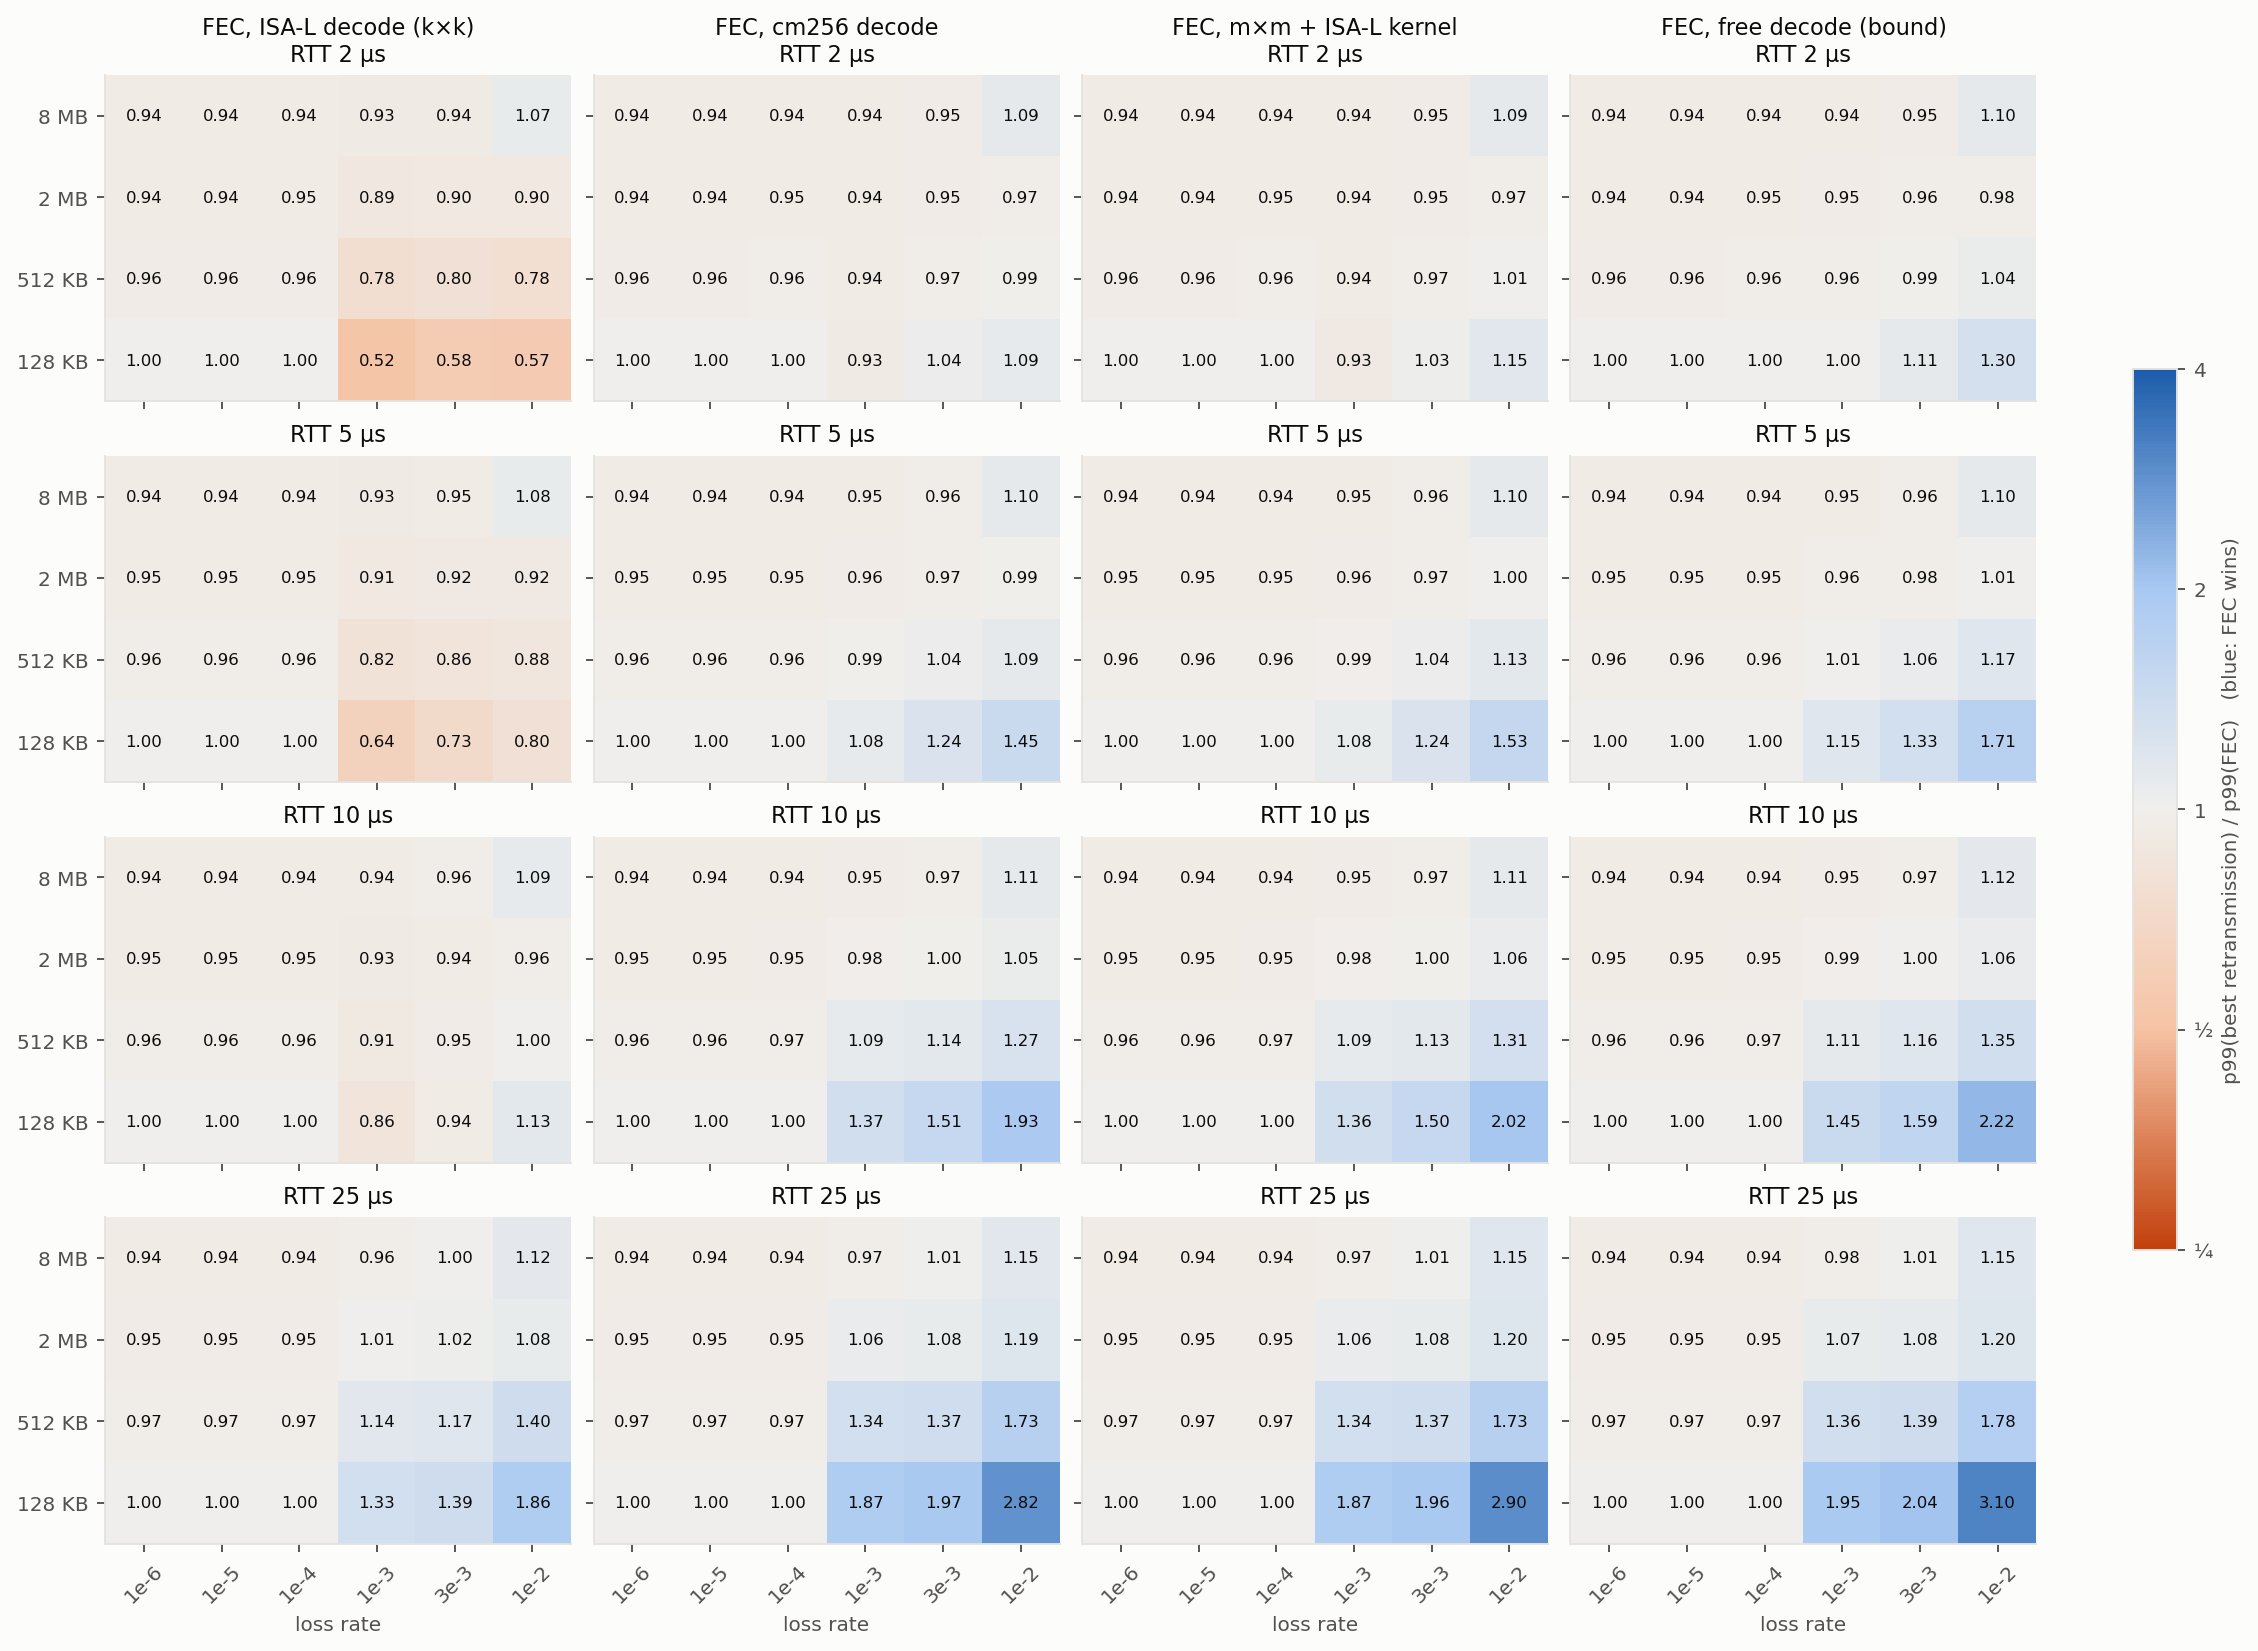
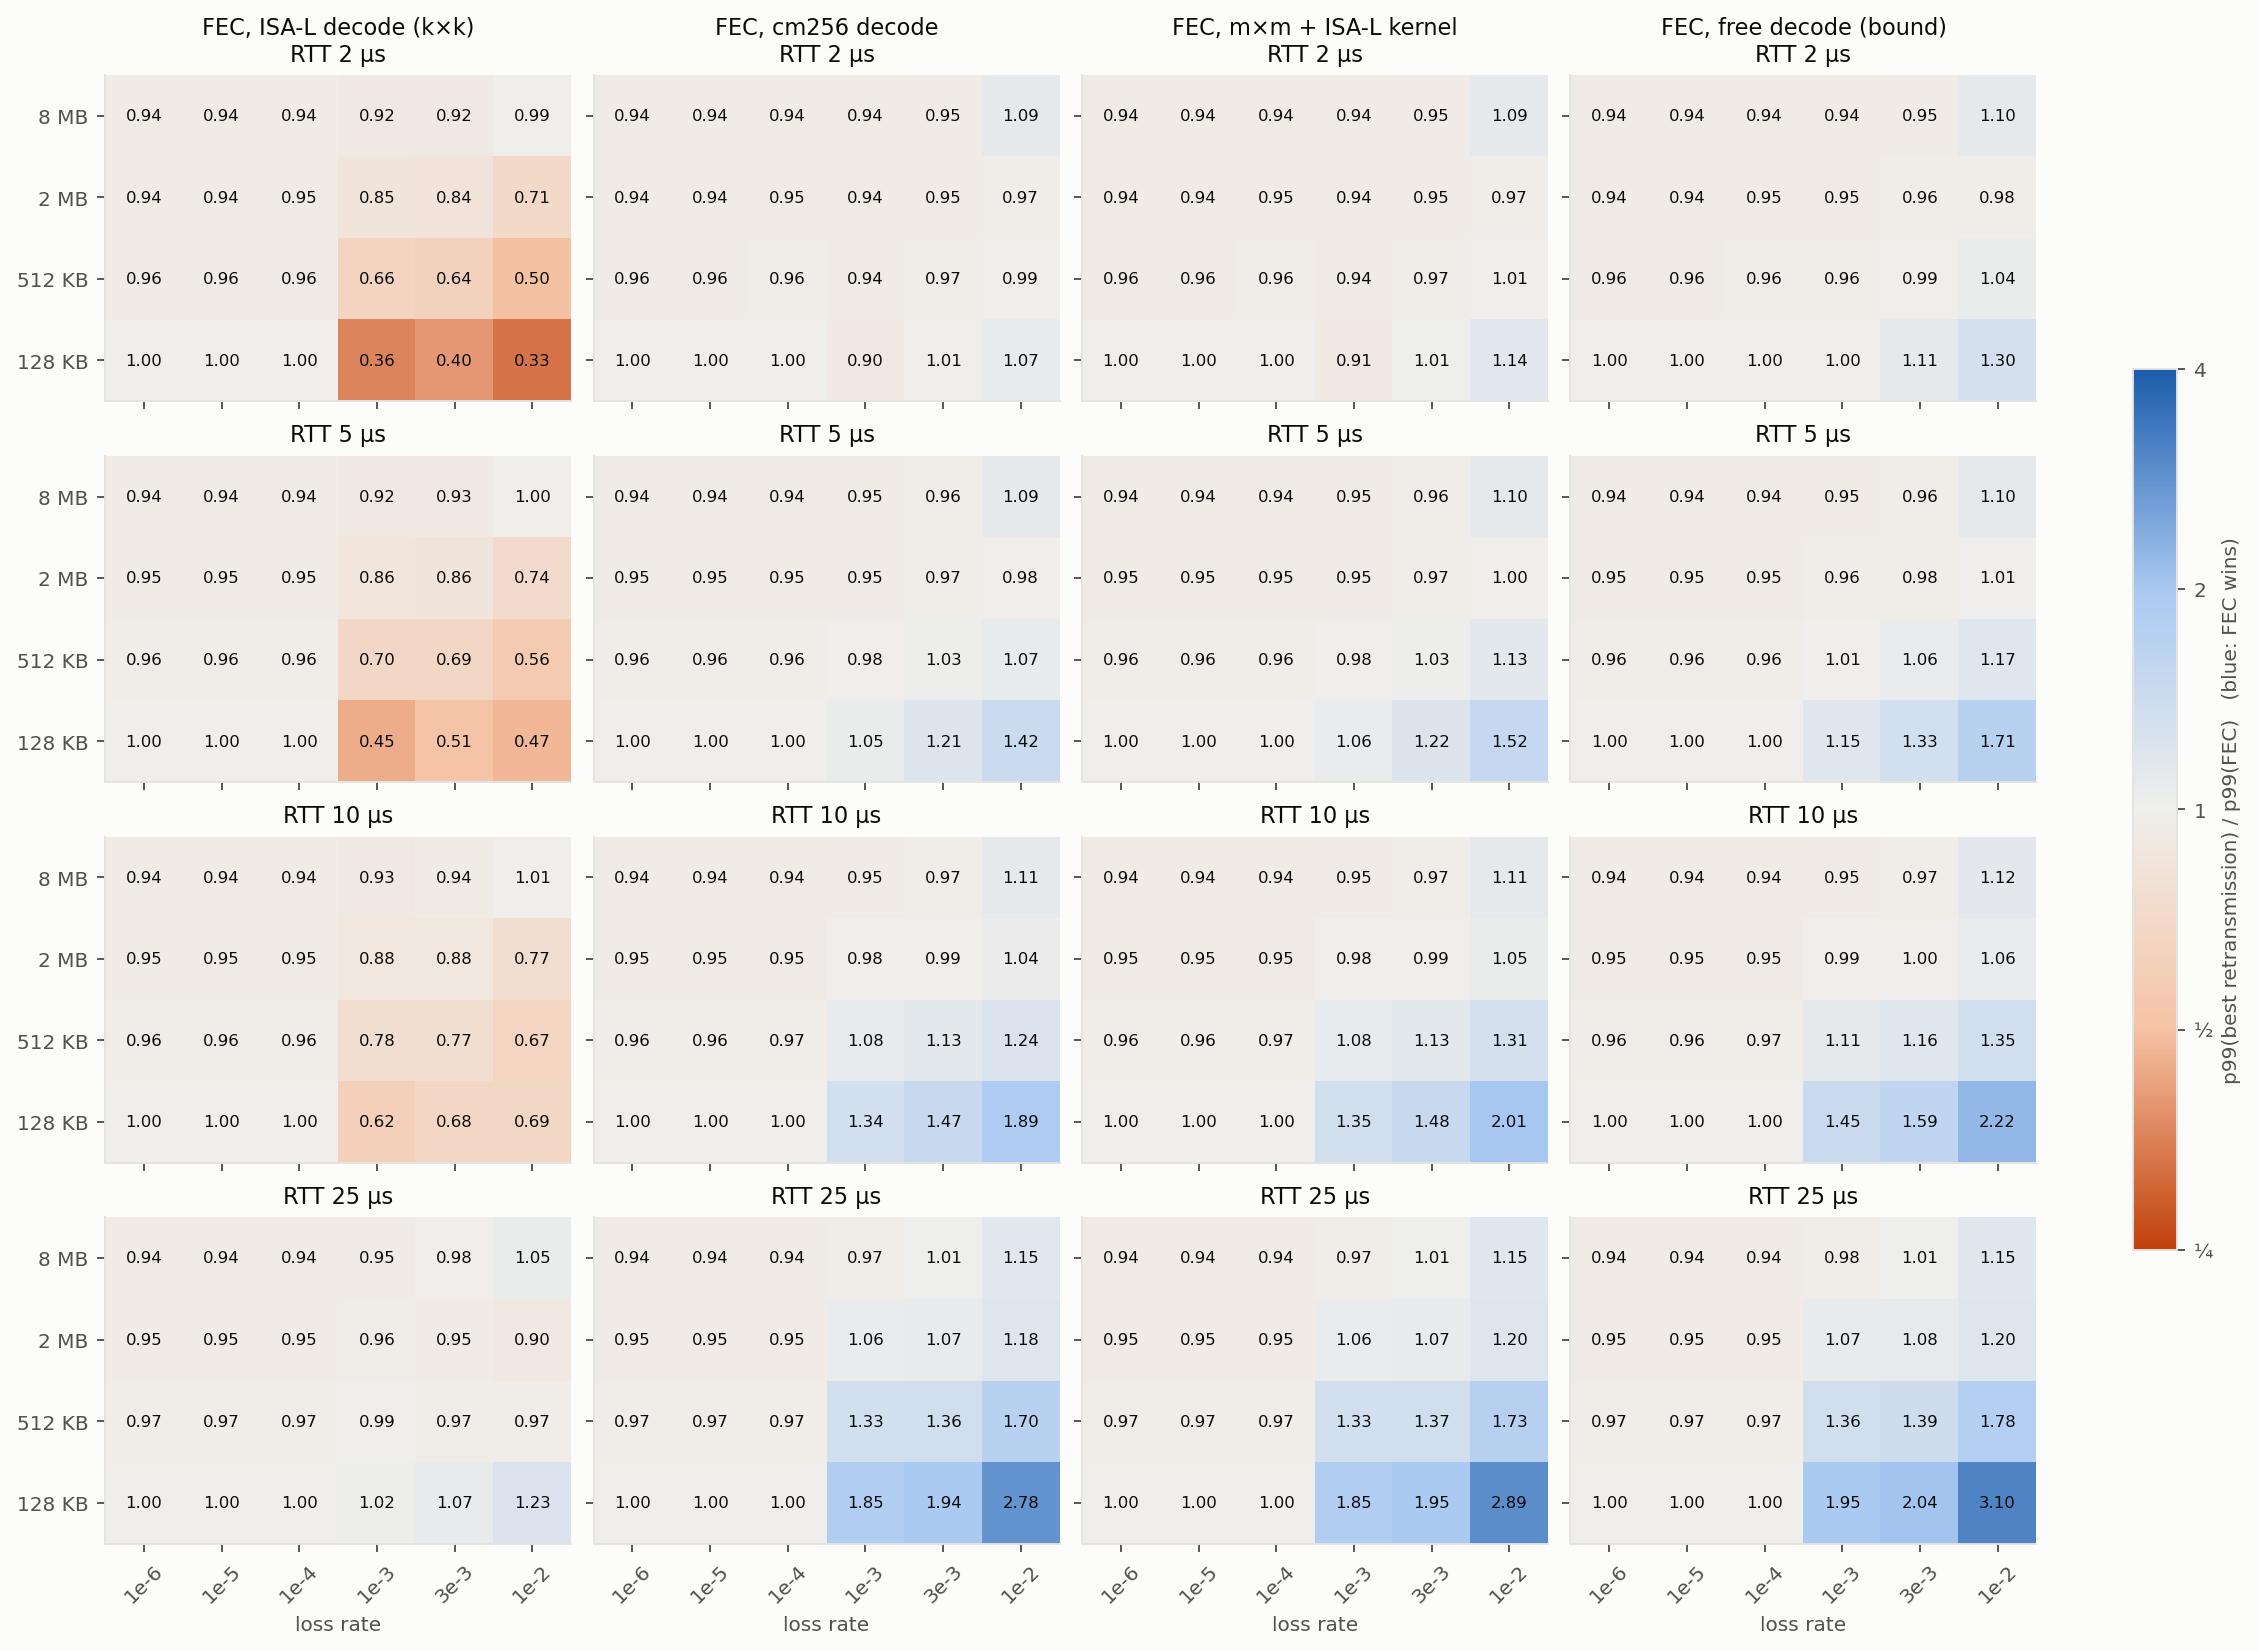
paper: server-based figures, parity-overhead and calibrated-burst results

diff --git a/paper/results.tex b/paper/results.tex
@@ -2,8 +2,7 @@
 %   bench_isal/results/ip-172-31-22-156-20261030-0546  (decode costs, AWS c7i.2xlarge, Xeon Platinum 8488C) — primary
 %   bench_isal/results/DESKTOP-MDBVB0T-20261030-1146   (decode costs, i9-14900HX laptop) — cross-check
 %   fecsim, 64-flow table: 1,000 steps/point with the server decode table (same seeds as run_sweeps.sh)
-% Figures: regenerate with  fecsim/run_sweeps.sh ../bench_isal/results/ip-172-31-22-156-20261030-0546/latency.csv
-%          then copy figures/fig{1,3}*.png next to this file.
+%   fecsim/results/20261030-1413  (full sweep with the server decode table; figures fig1, fig3, fig6, fig7 copied here)
 
 \section{Evaluation}
 \label{sec:eval}
@@ -93,6 +92,31 @@ boundary. FEC with an erasure-count decoder wins for small messages at loss rate
 above, and the region where it wins grows with RTT. ISA-L decoding shrinks that region to almost
 nothing at RTTs of 5\,\textmu s or less.
 
+\paragraph{How much parity.} Figure~\ref{fig:overhead} plots tail latency against parity overhead.
+At $10^{-4}$--$10^{-3}$ loss the 6.25\% codes are best: RS(17,16) completes a 64-flow step of
+128\,KB in 14.5\,\textmu s, against 23.3\,\textmu s for the best retransmission. At $10^{-2}$ loss
+they no longer carry enough parity. Too many codewords lose more than one packet, fall back to
+retransmission and hit the timeout (118.6\,\textmu s). RS(20,16), with 25\% overhead, completes in
+16.7\,\textmu s. The right amount of parity therefore grows with the loss rate. For single messages
+of 2\,MB no amount of parity beats retransmission below 1\% loss.
+
+\paragraph{Bursty loss calibrated to production measurements.} Losses in datacenters are bursty.
+Ghabashneh et al.~\cite{ghabashneh2022} measured Meta racks:
+\begin{itemize}
+  \item bursts last a median of 2\,ms (90th percentile 8\,ms);
+  \item they occur 7.5--39.8 times per second;
+  \item 0.4--5\% of them drop packets.
+\end{itemize}
+We convert these numbers into a two-state burst model that advances in wall-clock time, with
+lossy bursts of mean 2.9\,ms occupying $2.2\times10^{-4}$ (typical rack), $1.15\times10^{-3}$
+(busy) or $5.8\times10^{-3}$ (contended) of the time. The loss rate inside a burst is not
+published, so we sweep it. The same reversal appears (Figure~\ref{fig:bursts}). For a 64-flow step
+of 128\,KB in a busy rack with 10\% loss inside bursts, the best retransmission takes
+25.0\,\textmu s, FEC with ISA-L 51.7\,\textmu s, and FEC with erasure-count decoding
+17.1\,\textmu s. In a contended rack with 1\% in-burst loss the figures are 18.3, 34.4 and
+14.5\,\textmu s. At 30\% in-burst loss every scheme degrades, because no code we evaluate carries
+enough parity for a multi-millisecond burst.
+
 \paragraph{Which erasure-count decoder matters little.} cm256 and erasure-count decoding on ISA-L's
 kernel differ by at most 2.2\,\textmu s at the 99th percentile in the collective configurations above
 (3.7\,\textmu s across the full laptop sweep), even though cm256 decodes up to 2.6$\times$ slower. Once decoding costs about
@@ -114,10 +138,27 @@ size. Rows are RTTs and columns are decoders. Blue means FEC wins.}
 \label{fig:ratio}
 \end{figure*}
 
+\begin{figure*}[t]
+\centering
+\includegraphics[width=\linewidth]{fig6_overhead.png}
+\caption{p99 completion versus parity overhead for each code (erasure-count decoding on ISA-L's kernel).
+Dotted lines: best retransmission at the same loss rate.}
+\label{fig:overhead}
+\end{figure*}
+
+\begin{figure*}[t]
+\centering
+\includegraphics[width=\linewidth]{fig7_measured_bursts.png}
+\caption{p99 completion of a 64-flow step under bursty loss calibrated to Meta rack
+measurements~\cite{ghabashneh2022}, for three rack types and three in-burst loss rates.}
+\label{fig:bursts}
+\end{figure*}
+
 \subsection{Limitations}
 Our model has no congestion control, PFC or NIC pipeline. The flows in a collective step are
 independent and do not share a bottleneck, the sender is not window-limited, and acknowledgements
 are never lost. Decode costs are single-core medians from one cloud server and one laptop, without
-frequency pinning (EC2 guests do not expose it). Losses here are i.i.d.; a bursty model calibrated
-to production measurements is evaluated separately. Commodity RoCE timeouts are often far above
+frequency pinning (EC2 guests do not expose it). In the bursty model, bursts are independent
+across flows, whereas a real incast burst hits every flow to the same receiver at once, and the
+in-burst loss rate is swept rather than measured. Commodity RoCE timeouts are often far above
 100\,\textmu s, which would favour FEC and SR+TLP further.
